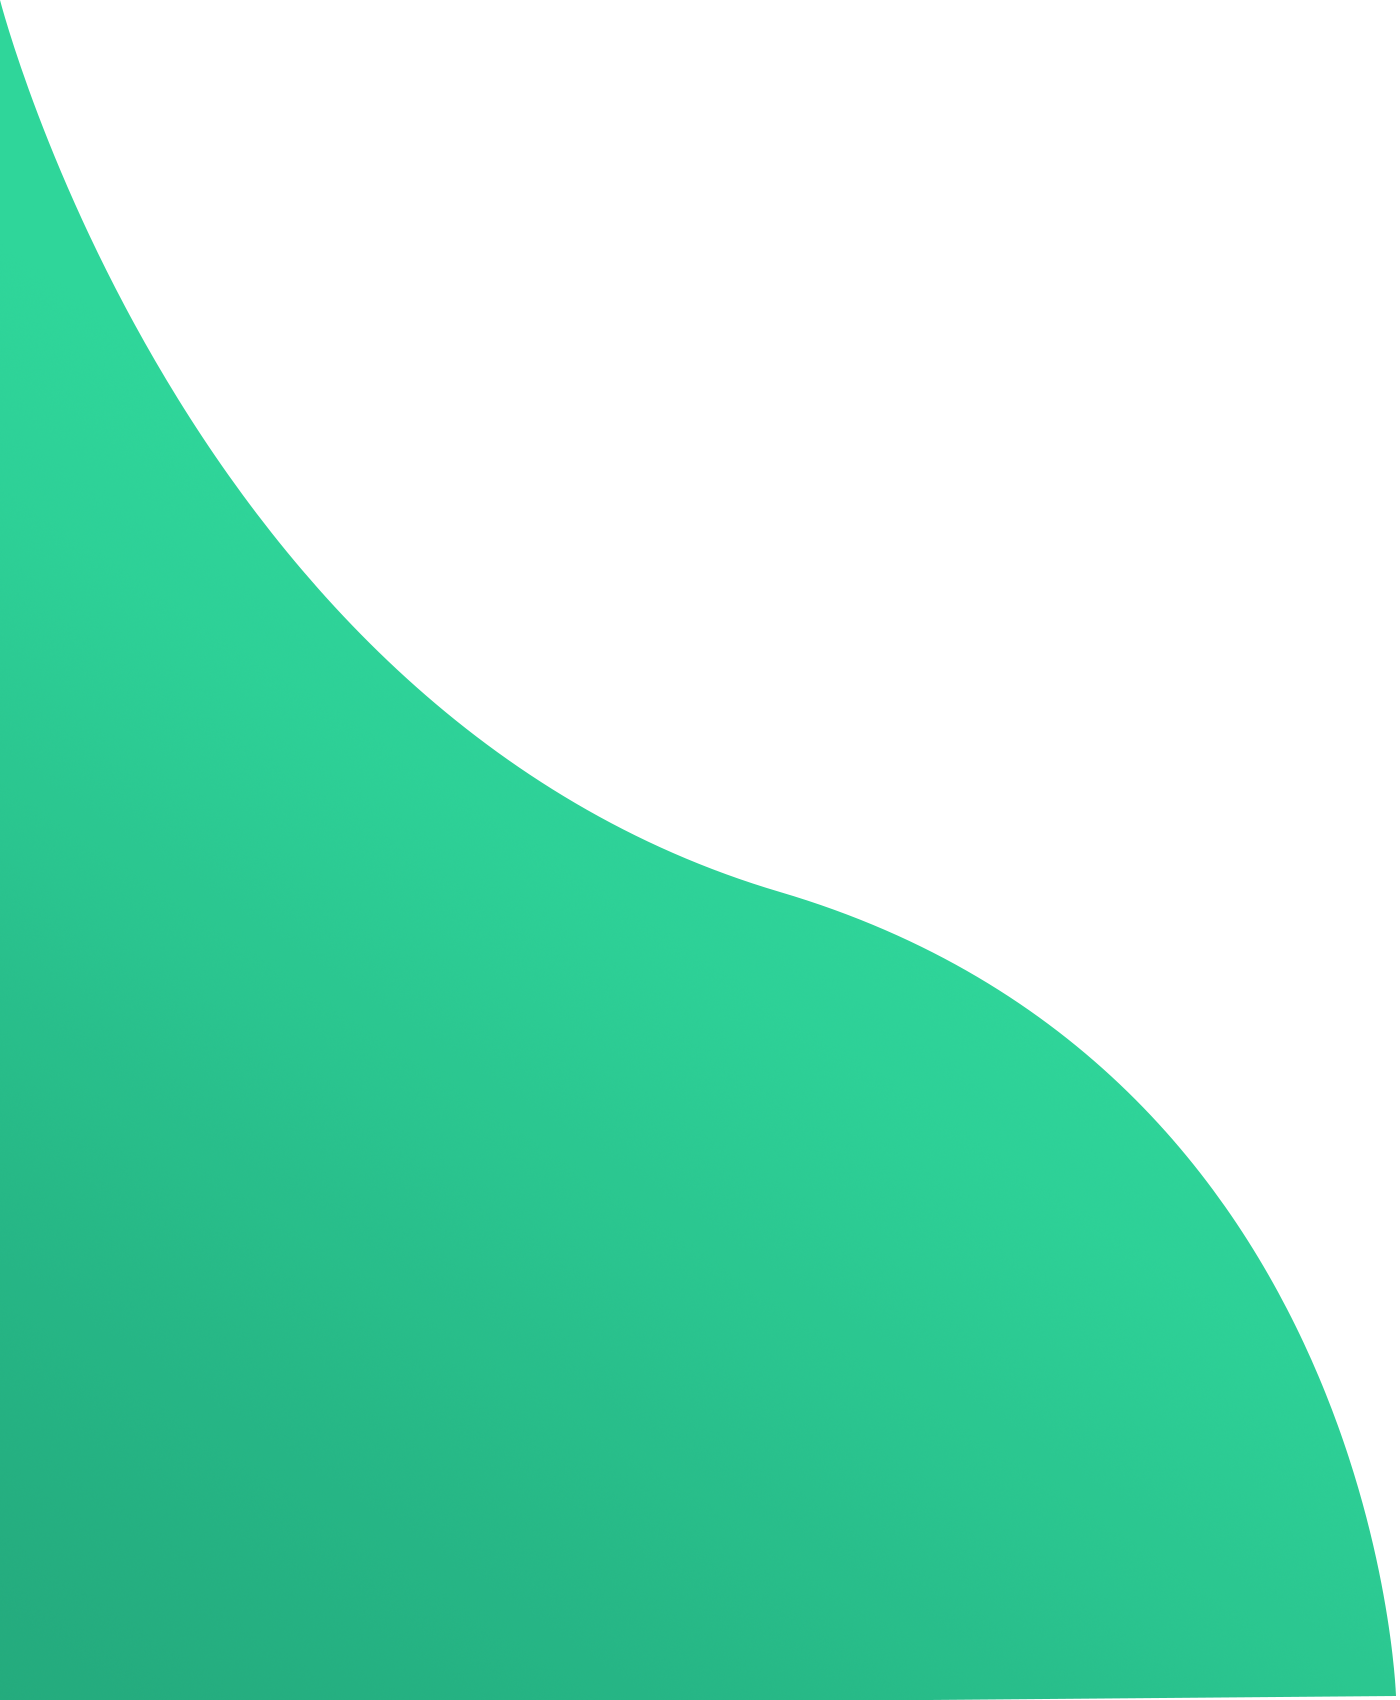
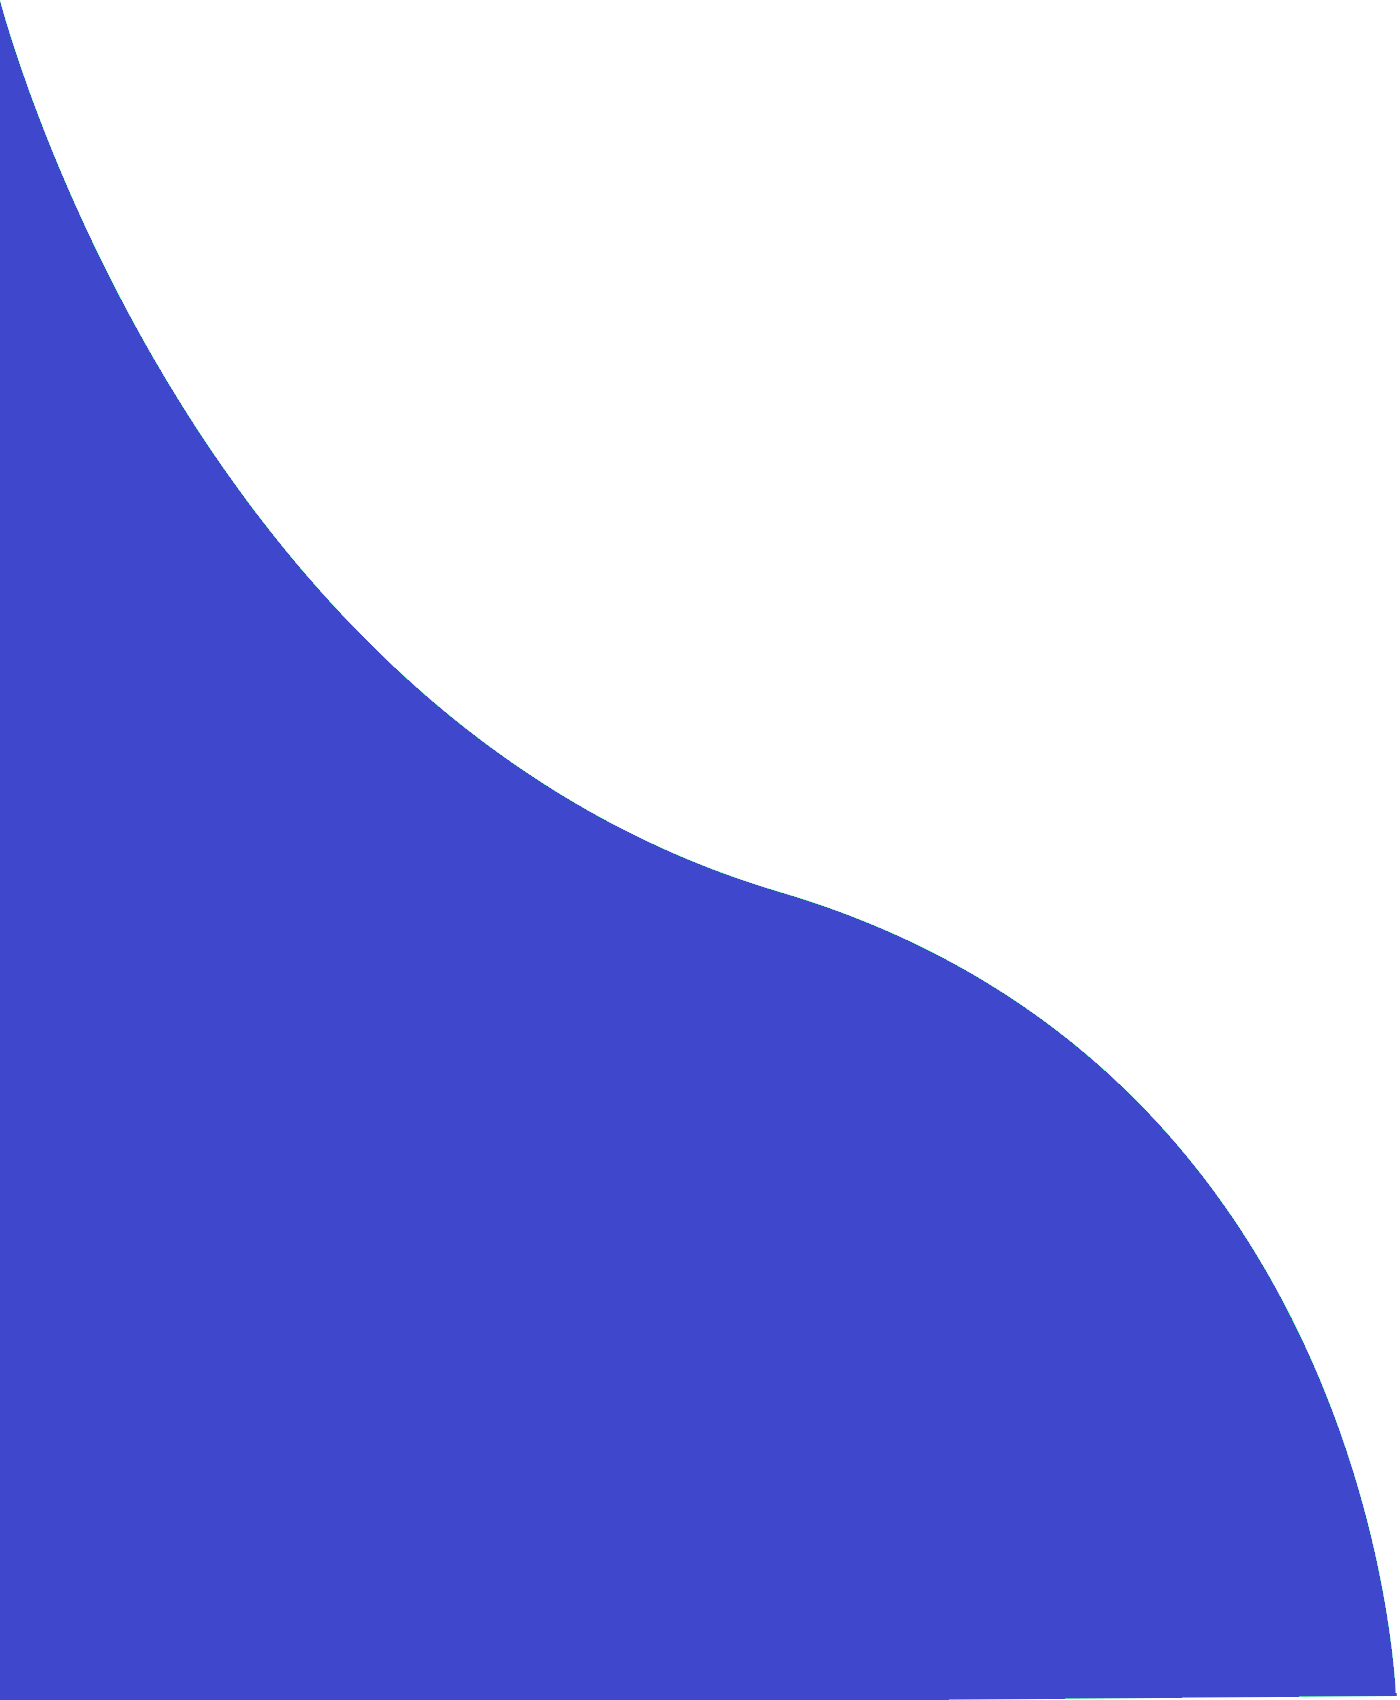
Alterada cores para conformidade a UI

diff --git a/css/styles.css b/css/styles.css
@@ -15,7 +15,12 @@ body {
   height: 100%;
   left: 0;
   bottom: 0;
-  z-index: -1
+  z-index: -1;
+  fill: #485ED2;
+}
+
+.wave path {
+  fill: #485ED2;
 }
 
 .container {
@@ -72,7 +77,7 @@ form h2 {
   bottom: -2px;
   width: 0;
   height: 2px;
-  background-color: #38d39f;
+  background-color: #485ED2;
   transition: .3s;
 }
 
@@ -85,7 +90,7 @@ form h2 {
 }
 
 .input-div.focus .i i {
-  color: #38d39f;
+  color: #485ED2;
 }
 
 .input-div.focus div h5 {
@@ -158,7 +163,7 @@ a {
 }
 
 a:hover {
-  color: #38d39f
+  color: #485ED2
 }
 
 .btn {
@@ -170,7 +175,7 @@ a:hover {
   font-size: 1.2rem;
   outline: none;
   border: none;
-  background-image: linear-gradient(to right, #32be9f, #38d39f, #32be9f);
+  background-image: linear-gradient(to right, rgb(89, 117, 255), #485ED2, rgb(89, 117, 255));
   cursor: pointer;
   color: #fff;
   font-weight: bold;

diff --git a/index.html b/index.html
@@ -12,12 +12,12 @@
   <img src="assets/img/wave.png" alt="Wave onda cadastro" class="wave">
   <div class="container">
     <div class="img">
-      <img src="assets/img/img.svg" alt="">
+      <img src="assets/img/img1.svg" alt="">
     </div>
 
     <div class="login-container">
       <form action="index.html">
-        <img class='avatar' src="assets/img/avatar.svg" alt="">
+        <img class='avatar' src="assets/img/avatar1.svg" alt="">
 
         <h2>Bem Vindo!</h2>
         <div class="input-div one">
